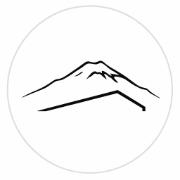
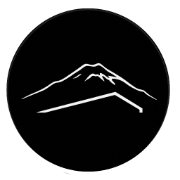
Correct site metadata

diff --git a/src/routes/__root.tsx b/src/routes/__root.tsx
@@ -13,13 +13,12 @@ export const Route = createRootRoute({
         content: 'width=device-width, initial-scale=1',
       },
       {
-        title:
-          'Kullinko refugio en Malalcahuello a minutos de Centro de Ski Corralco',
+        title: 'KULLINKO - Refugio Ski Malalcahuello',
       },
       {
         name: 'description',
         content:
-          'Kullinko es un refugio de montaña en Malalcahuello, a minutos de Centro de Ski Corralco.',
+          'Kullinko refugio de montaña en Malalcahuello a minutos de Centro de Ski Corralco',
       },
     ],
     links: [